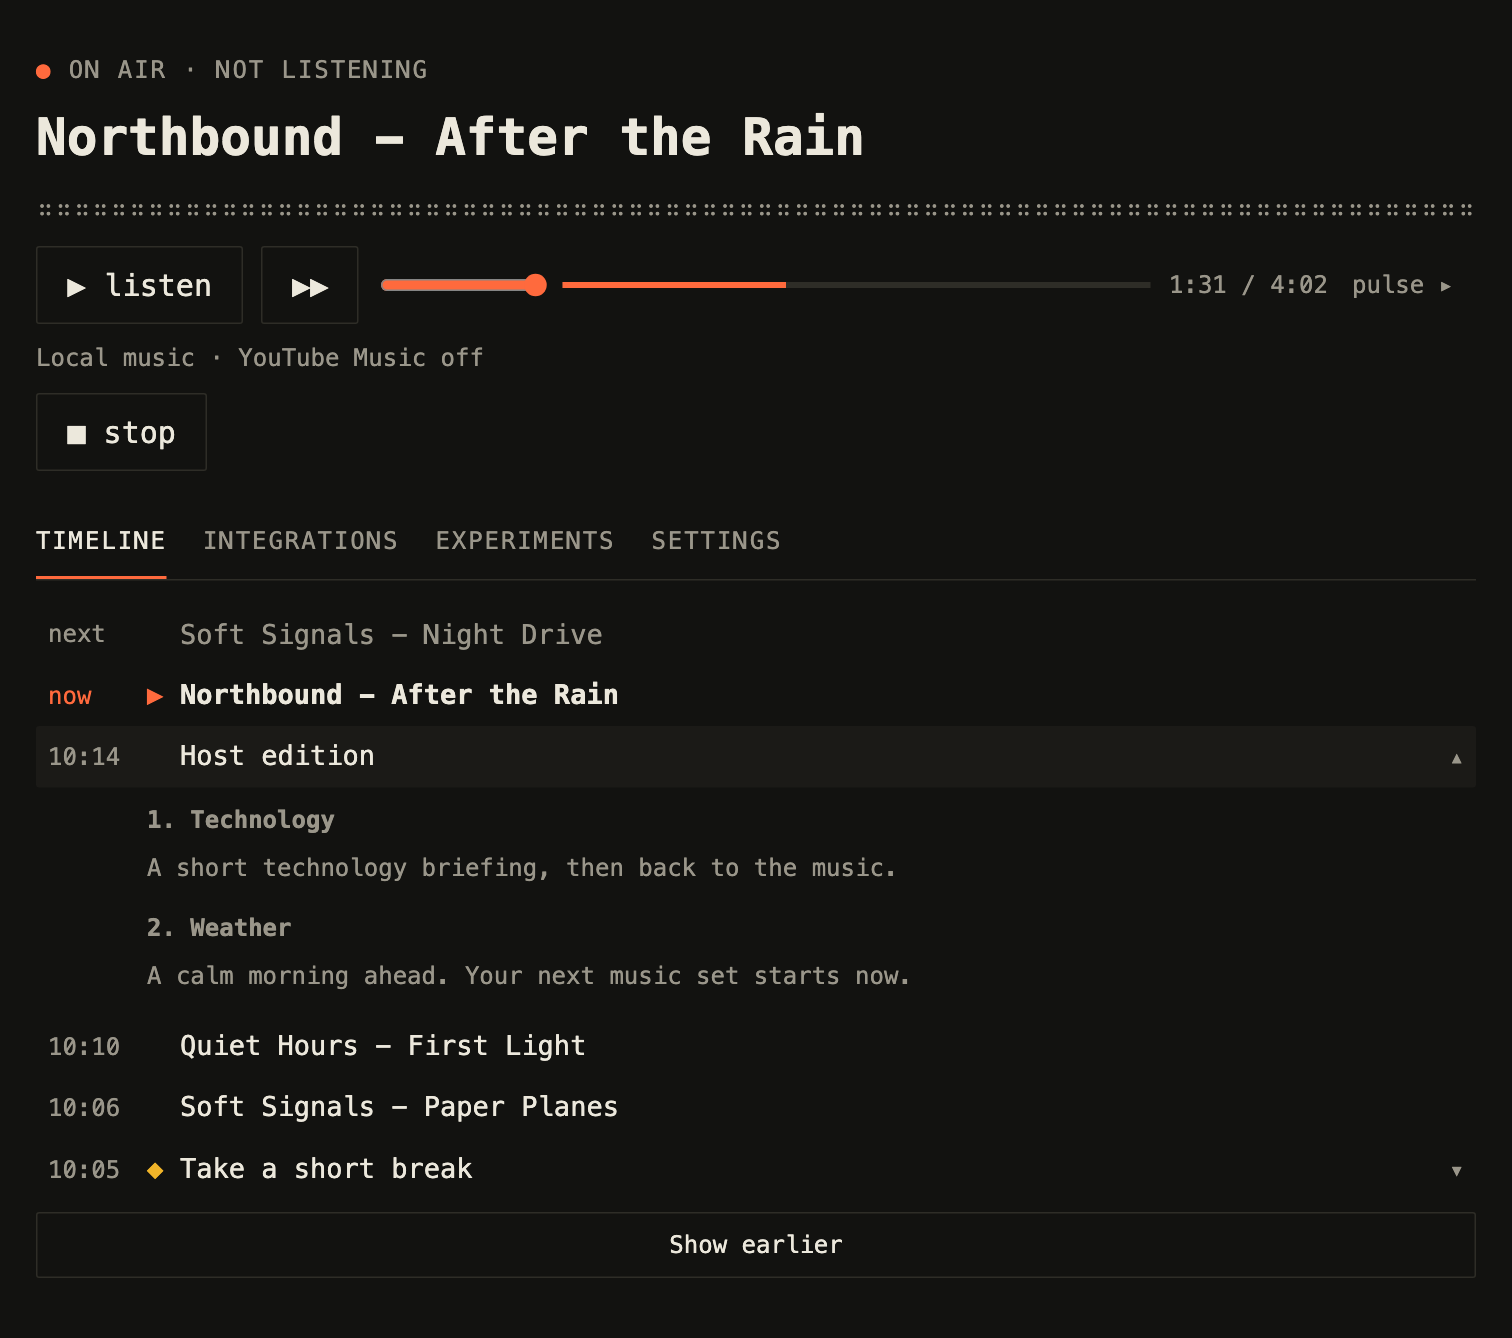
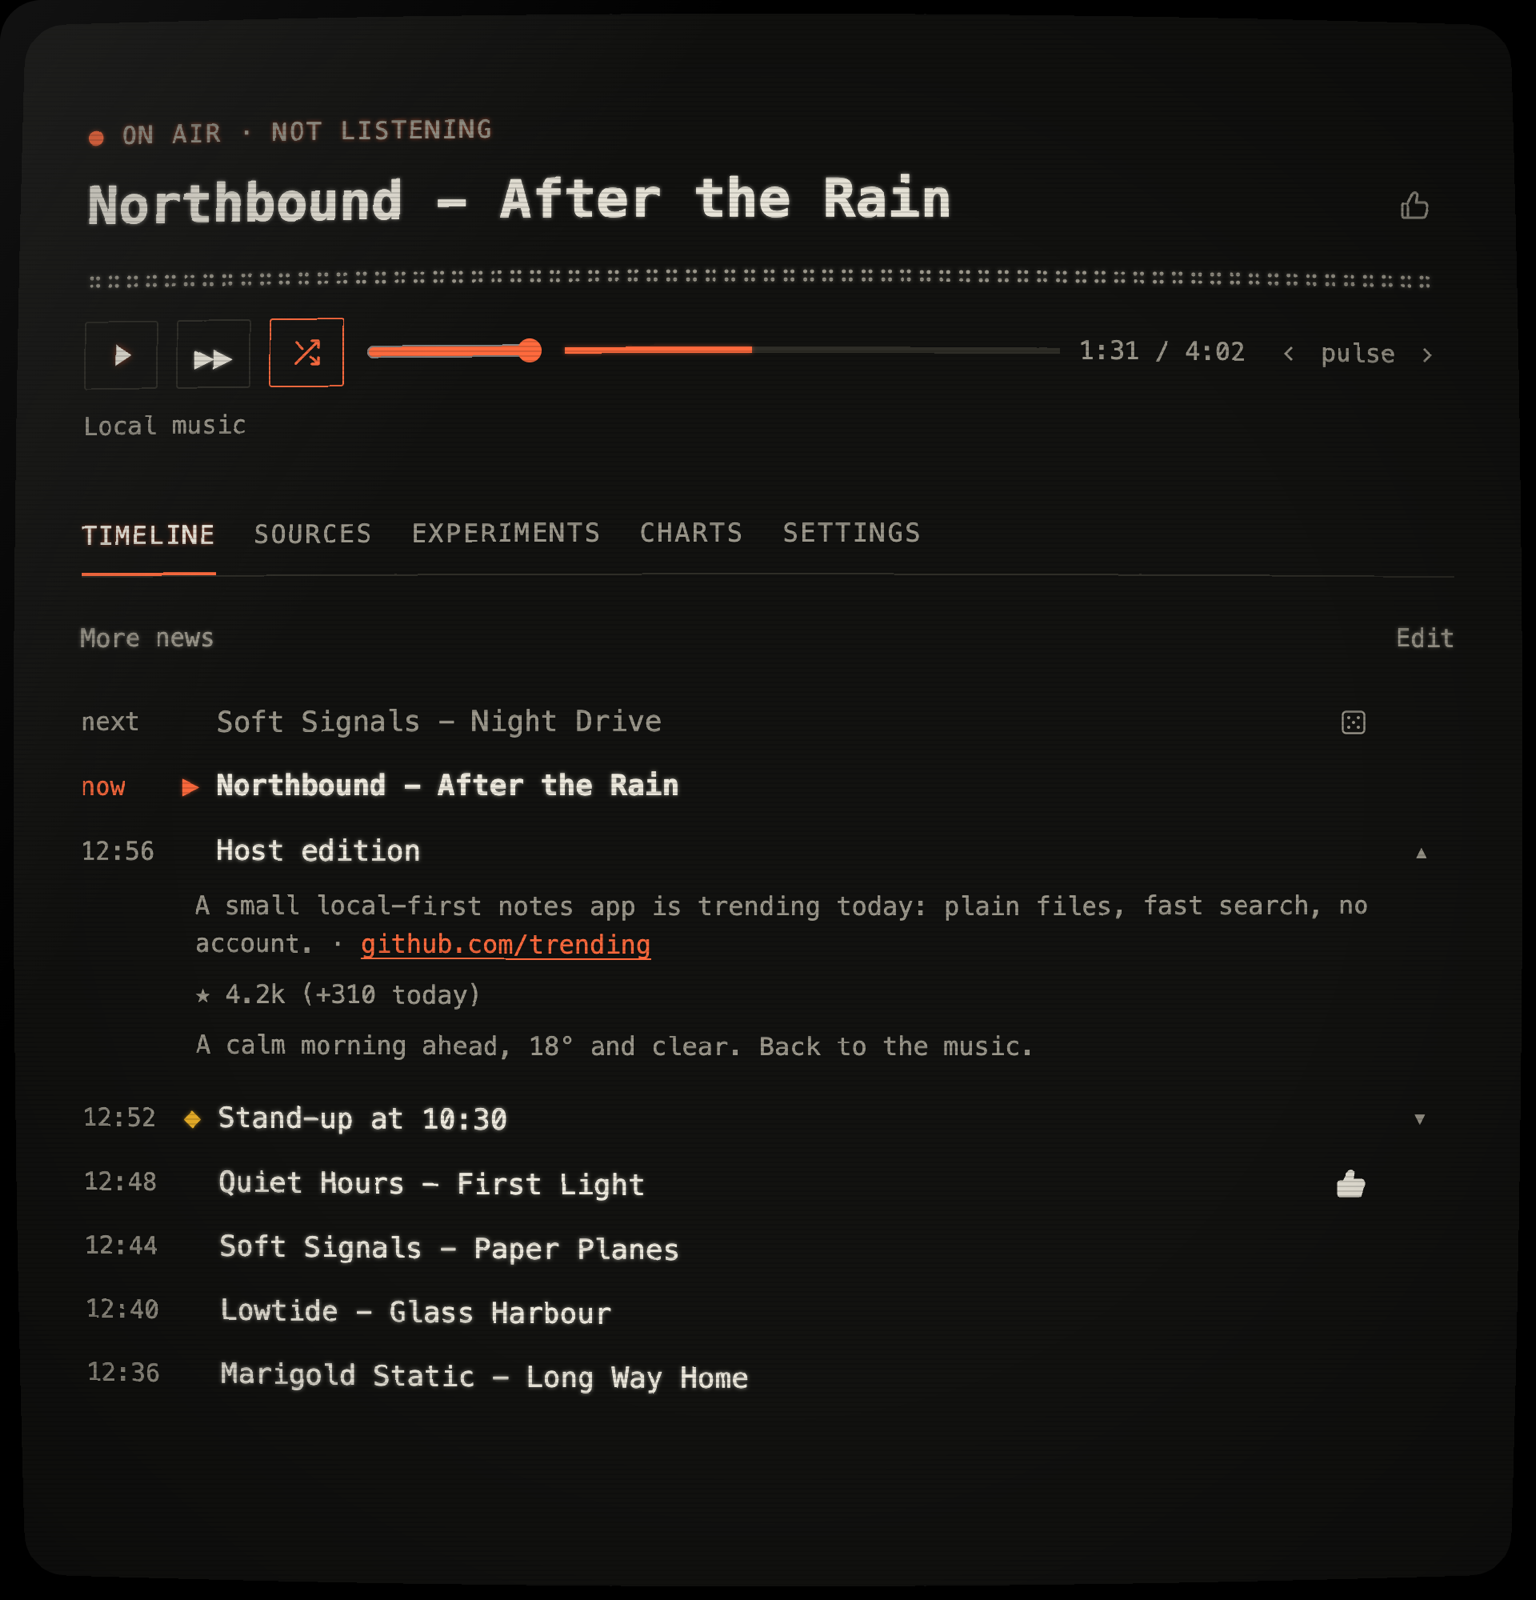
docs: a README with a quick start, the five themes, the timeline editor and every integration
Fresh screenshots of the current page on demo data (terminal light and dark, lime, soft, prism, cyber and the
editor); the guide's integration table gains Reddit, Telegram, lyrics and music stories, and Tailscale.

diff --git a/README.md b/README.md
@@ -7,135 +7,206 @@
               YOURWAVE
 ```
 
-`macOS` · `Python 3.11+` · `Liquidsoap` · `FFmpeg`
+`macOS` · `Python 3.11+` · `Liquidsoap` · `FFmpeg` · [MIT](LICENSE)
 
-[Quick start](#quick-start) · [On air](#on-air) · [Usage guide](docs/guide.md) · [Contributing](CONTRIBUTING.md)
+[Quick start](#quick-start) · [Themes](#five-looks-one-station) · [Integrations](#integrations) · [How it works](#how-it-works) · [Guide](docs/guide.md) · [Contributing](CONTRIBUTING.md)
 
-Yourwave turns your music library into a personal radio station with Russian-speaking hosts, news breaks, and useful reminders. Listen in your browser, see what just played, and shape the next edition without leaving the music.
+Yourwave turns the music on your Mac into a personal radio station. Between songs, a Russian-speaking host reads short news editions from sources you choose, the weather, and your calendar and Todoist reminders. You listen in the browser, see what just aired, and change what comes next while the music plays.
 
-Built for **one station on a Mac**, with your own music and a separately installed speech backend. Speech and the default script editor run locally; optional integrations and selected cloud editors make network requests. The Python application uses the standard library.
+<picture>
+  <source media="(prefers-color-scheme: dark)" srcset="docs/images/yourwave-dark.png">
+  <img src="docs/images/yourwave-light.png" alt="Yourwave's terminal theme: the song on air, the next track with its dice, an expanded host edition with a GitHub story and the weather, a reminder and earlier songs" width="880">
+</picture>
+
+<sub>Demo data. The terminal theme follows your system's light or dark mode.</sub>
+
+- **Local first.** Speech and the default script editor (Ollama) run on your Mac. The Python app uses only the standard library: there is nothing to `pip install`.
+- **A real broadcast.** Liquidsoap mixes the songs with crossfades and lowers the song under the host's voice. FFmpeg processes the voice and the whole station like a radio does: compression, a de-esser and a limiter.
+- **Yours to steer.** Use the dice to replace the next song, or, in the editor, any coming song; skip a block, move an edition, or insert your own text. The station has a CLI and an HTTP API for scripts and agents.
 
 ## Quick start
 
-### 1. Install the station
+You need a Mac with [Homebrew](https://brew.sh), a folder of music, and about ten minutes.
+
+**1. Install the station**
 
 ```sh
 brew install python liquidsoap ffmpeg
 git clone https://github.com/ArtomStatsenko/yourwave.git
 cd yourwave
-python3 tools/install_base_audio.py
-mkdir -p ~/Music/Radio
+python3 tools/install_base_audio.py   # four Base sounds, checked against a pinned SHA-256
+mkdir -p ~/Music/Radio                # put MP3, M4A, FLAC or WAV files here
 ```
 
-Add MP3, M4A, FLAC, or WAV files to `~/Music/Radio`. The installer downloads four Base sounds and checks their pinned SHA-256 hashes; your music and recordings stay outside Git.
+**2. Add a voice and a script editor**
 
-### 2. Prepare the voices and script editor
+- Speech: install **VoiceStudio** separately. It is not bundled. By default the station expects it at `http://127.0.0.1:3900`.
+- Script editor: install [Ollama](https://ollama.com) and pull the default model:
 
-Install **VoiceStudio** separately for speech. For the default local script editor, install and run **Ollama**, then download the model:
+  ```sh
+  ollama pull qwen3.5:4b
+  ```
 
-```sh
-ollama pull qwen3.5:4b
-```
+  If you prefer a cloud model, choose one later in **Settings**: OpenAI (a key or *Sign in with ChatGPT*), OpenRouter, DeepSeek or xAI Grok.
 
-### 3. Open your station
+**3. Open your station**
 
 ```sh
 ./bin/radio ui
 ```
 
-The UI opens at [localhost:8765](http://127.0.0.1:8765/) and creates your configuration on first launch. Set `voice.server_dir` in `config.toml` to your VoiceStudio backend directory if it differs from the default, then start the station and choose **Listen**.
+The page opens at [127.0.0.1:8765](http://127.0.0.1:8765/) and starts the station. On first launch it writes your `config.toml`. Press **▶** to listen.
 
-Use `./bin/radio doctor` to check the tools and synthesize a voice sample. The [setup guide](docs/guide.md#quick-start) covers backend paths, offline installation, and configuration.
+**4. Check the setup**
+
+```sh
+./bin/radio doctor
+```
+
+`doctor` checks the tools, the audio output, your music folder and the voice backend, then speaks a Russian test phrase. If VoiceStudio is not in its default folder, set `voice.server_dir` in `config.toml`. The [setup guide](docs/guide.md#quick-start) covers backend paths, an offline install and every setting.
 
 <details>
 <summary>Where your station lives</summary>
 
-Configuration, source connections, playback history, and caches live in `~/Library/Application Support/PersonalRadioClaude/`. The older directory name and `radio` command are retained for compatibility. Your music stays in the folder you select.
+Configuration, source connections, playback history and caches live in `~/Library/Application Support/PersonalRadioClaude/`. The older directory name and the `radio` command are kept for compatibility. Your music stays in the folder you choose.
 
-Use `RADIO_DATA_DIR` for a separate development station; see [Contributing](CONTRIBUTING.md#setup).
+To try changes on a separate development station, set `RADIO_DATA_DIR`; see [Contributing](CONTRIBUTING.md#setup).
 
 </details>
 
 > [!NOTE]
-> VoiceStudio is not bundled. A complete first run on another machine has not yet been verified; [deployment status](docs/public-deployment-blockers.md) records the remaining checks.
+> A complete first run on a fresh machine has not yet been verified. The [deployment status](docs/public-deployment-blockers.md) lists the checks still open.
 
 ## On air
 
-<picture>
-  <source media="(prefers-color-scheme: dark)" srcset="docs/images/yourwave-dark.png">
-  <img src="docs/images/yourwave-light.png" alt="Yourwave showing the current song, next track, and an expanded host edition in the broadcast timeline" width="960">
-</picture>
-
-*Demo data: the current song, the next track, and an expanded host edition. Light and dark themes follow your system.*
-
-| Part of your station | What it does |
+| | What your station does |
 | --- | --- |
-| Music | Local files or a connected YouTube Music playlist, with smooth transitions and local fallback |
-| Hosts | Russian speech, an optional second host, and pronunciation overrides for foreign names |
-| Editions | Main and short news opportunities at `:00` and `:30`, fitted around song boundaries |
-| Reminders | Calendar and Todoist announcements, with details retained in the timeline |
-| Timeline | What played, what comes next, and an editor for upcoming editions and inserts |
-| Coming up | An optional experiment introducing two upcoming songs, with reviewable music hooks |
+| **Music** | Your local files, a connected YouTube Music playlist, or both in one shuffle. Unheard songs can go first; the *Energy wave* experiment rises and eases with listening time. |
+| **Host editions** | Main and short editions at `:00` and `:30`, placed at song boundaries. The host speaks over the end of a song, as on the radio. A second host is an experiment. |
+| **Reminders** | Calendar events and Todoist tasks, read aloud ahead of time, with the details kept in the timeline. |
+| **Timeline** | What aired, with an unfolded transcript and the source links for each edition, what airs next, and a 👍 for songs you want more often. |
+| **Editor** | With the *Air direction* experiment on, the plan for the next hours: a dice on every coming song, skip or move a block, insert a text, a jingle or a weather update. |
+| **Charts** | Weekly, monthly and all-time charts from your 👍 and your plays. With Air direction on, a *chart set* airs them. |
+| **Anywhere** | The same page on your phone over a private [Tailscale](docs/mobile-listening.md) network. |
 
-Editions depend on prepared content and the speech budget. Their displayed times are estimates until playback is determined; an unavailable source does not stop the music.
+Edition times are estimates until the songs around them are fixed. If a source is down, the music keeps playing.
 
-## Make it yours
+<p align="center">
+  <img src="docs/images/timeline-editor.png" alt="The timeline editor: coming songs with a dice each, host editions and a reminder with their readiness, move and skip buttons, and the songs that already aired below" width="720">
+</p>
 
-- **Choose the stories.** GitHub, imported briefings, weather, calendar, Todoist, and optional public news sources. [Integrations](docs/guide.md#integrations).
-- **Shape the sound.** Choose voices and a script provider, set the station name, and adjust speech limits. [Settings](docs/guide.md#settings).
-- **Try an experiment.** Enable two hosts or Coming up when you want them. [Timeline and experiments](docs/guide.md#timeline-and-experiments).
+<sub>The timeline editor (**Timeline → Edit**). Demo data.</sub>
 
-**Listen / Pause** affects the current browser. With the `browser` output the station starts when a page opens on the Mac and stops a minute after the last page closes and nobody listens; with `speakers` or `both`, **Start radio** and **Stop radio** on the Mac control it. [Phone listening](docs/mobile-listening.md).
+## Five looks, one station
+
+Every theme is the same page with a different look: the same timeline, editor and settings. Choose one in **Settings → Appearance**, open a theme with `?theme=<name>` in the page address, or set `[ui] theme` in `config.toml`.
+
+<table>
+  <tr>
+    <td width="50%"><img src="docs/images/themes/lime.png" alt="Lime theme: dark, with a lime accent and rows as tiles"><br><b>lime</b>: dark, one lime accent, rows as tiles</td>
+    <td width="50%"><img src="docs/images/themes/soft.png" alt="Soft theme: light, with an indigo accent and raised controls"><br><b>soft</b>: light, indigo, soft raised controls</td>
+  </tr>
+  <tr>
+    <td><img src="docs/images/themes/prism.png" alt="Prism theme: black, with a split-colour title and thin lines"><br><b>prism</b>: black, a split-colour title, thin lines</td>
+    <td><img src="docs/images/themes/cyber.png" alt="Cyber theme: dark, with a yellow accent, uppercase labels and cut corners"><br><b>cyber</b>: yellow on black, cut corners</td>
+  </tr>
+</table>
+
+**terminal** (shown at the top) is the default and the reference. To write your own theme, see [Page themes](docs/ui-themes.md).
+
+## Integrations
+
+Everything except your music folder is optional. Turn sources on in the page's **Sources** tab or in `config.toml`. Setup for each one is in the [guide](docs/guide.md#integrations).
+
+| Area | Integration | What it brings |
+| --- | --- | --- |
+| Music | Local folder | MP3, M4A, FLAC and WAV from `~/Music/Radio` |
+| | YouTube Music | A connected playlist, played through `yt-dlp`, with local songs as the fallback |
+| Speech | VoiceStudio | The host's voice, designed from a description (OmniVoice); a Qwen3-TTS voice-cloning engine is also supported |
+| Script editor | Ollama · OpenAI / ChatGPT · OpenRouter · DeepSeek · xAI Grok | Short Russian retellings that follow one editorial policy for every source |
+| News | GitHub Trending · new GitHub repositories | Popular projects, and promising projects from the last week |
+| | Horizon | Prepared news briefings |
+| | Reddit · Telegram | Public subreddits and channels you choose ([experimental](docs/public-news.md)) |
+| Your day | iCal calendar · Todoist | Timed reminders and all-day mentions |
+| | Open-Meteo | A short weather update, at most every three hours |
+| About songs | LRCLIB · MusicBrainz · Wikidata | Lyrics timing, so the host does not talk over vocals, and verified *music stories* |
+| Elsewhere | Tailscale | The station on your phone, privately ([how](docs/mobile-listening.md)) |
+| Automation | HTTP API · CLI | Every station operation, with JSON output ([reference](docs/cli/README.md)) |
+
+Optional integrations and cloud editors make network requests: for example, music stories send artist and track names to MusicBrainz and Wikidata. Tokens and cookies stay in your local data folder.
+
+## How it works
+
+```text
+  news · calendar · weather · todos
+                 │
+           script editor    LLM: a short retelling
+                 │
+               voice        TTS
+                 │
+               daemon       plans the clock and the timeline
+                 │
+             Liquidsoap     songs, talk-ups, crossfades
+                 │
+               FFmpeg       voice and master processing
+                 │
+     browser · speakers · phone
+```
+
+- `radio/daemon.py` keeps the plan: what airs at the next song boundary and which edition fits the clock.
+- `radio/radio.liq` is the Liquidsoap mixer. `radio/engine.py` drives it and runs the FFmpeg output chain.
+- `radio/ui.py` serves the page and the stream. `radio/web` holds the page: one core, one model and five themes.
+
+For the details, read the [audio chain](docs/audio.md), the [HTTP API](docs/api.md) and the [energy wave](docs/energy-wave.md).
 
 ## At the terminal
 
 ```sh
-./bin/radio status
-./bin/radio next
-./bin/radio history --last 10
+./bin/radio status              # what is on air
+./bin/radio next                # skip to the next song
+./bin/radio history --last 10   # what aired
 ```
 
-Import a briefing, record an output, or inspect sources with the [command guide](docs/guide.md#commands).
-
-### Agent and script access
-
-The same station operations are available through the HTTP API and the native CLI. Use JSON results for automation:
+For scripts and agents, the same operations come as JSON:
 
 ```sh
 ./bin/radio --json capabilities
-./bin/radio --json settings list
 ./bin/radio --json queue list
-./bin/radio --json probe --silent --seconds 5
+./bin/radio --json probe --silent --seconds 5   # decode the live stream, no audio device
 ```
 
-`./bin/radio api serve` runs the existing API without opening a browser. The probe needs that server and a playing stream; it decodes audio without opening an audio device. See the [CLI and API reference](docs/cli/README.md) for all operations, credentials through stdin, exit codes and browser-only settings.
+`./bin/radio api serve` runs the API without opening a browser. The [CLI and API reference](docs/cli/README.md) lists every operation, how to pass credentials on stdin, and the exit codes.
 
-## Inside the repository
+## Documentation
 
-| Path | Contents |
+| Read | For |
 | --- | --- |
-| [radio/](radio/) | Station process, source adapters, speech, playback, and browser UI |
-| [tests/](tests/) | Isolated state, scheduling, UI, and audio-engine checks |
-| [tools/](tools/) | Base audio installer and build tools |
-| [docs/guide.md](docs/guide.md) | Setup, integrations, configuration, and everyday use |
+| [Usage guide](docs/guide.md) | Setup, integrations, settings, commands |
+| [Phone listening](docs/mobile-listening.md) | The station on your phone over Tailscale |
+| [Audio](docs/audio.md) | Loudness, transitions, voice and master processing |
+| [HTTP API](docs/api.md) · [CLI](docs/cli/README.md) | Automation and agents |
+| [Page themes](docs/ui-themes.md) | How themes work, and how to write one |
+| [Product](PRODUCT.md) · [Design](DESIGN.md) | What the station is for, and the interface rules |
 
 ## Development
-
-Install Base and the audio tools, then run:
 
 ```sh
 python3 -m unittest discover -s tests
 git diff --check
 ```
 
-The tests do not need VoiceStudio or an LLM; some use Liquidsoap and FFmpeg. See [CONTRIBUTING.md](CONTRIBUTING.md) for an isolated development setup and [TODO.md](TODO.md) for deferred work.
+The tests need neither VoiceStudio nor an LLM. Some of them start Liquidsoap and FFmpeg. See [CONTRIBUTING.md](CONTRIBUTING.md) for an isolated development station and [TODO.md](TODO.md) for deferred work.
+
+| Path | Contents |
+| --- | --- |
+| [radio/](radio/) | The station process, source adapters, speech, playback and the page |
+| [tests/](tests/) | Scheduling, UI, state and audio-engine checks on isolated data |
+| [tools/](tools/) | The Base audio installer and build tools |
 
 ## License and credits
 
 - **Code and documentation:** [MIT](LICENSE).
-- **Base sounds:** edited from **Tech Live by Kevin MacLeod**, under **CC BY 4.0**; distributed separately as [Base audio v1.0.0](https://github.com/ArtomStatsenko/yourwave/releases/tag/base-audio-v1.0.0). [Credits and rebuild instructions](assets/RIGHTS.md).
-- **English pronunciation data:** bundled CMUdict, under its [own license](assets/cmudict.LICENSE).
+- **Base sounds:** edited from **Tech Live by Kevin MacLeod**, under **CC BY 4.0**, and distributed separately as [Base audio v1.0.0](https://github.com/ArtomStatsenko/yourwave/releases/tag/base-audio-v1.0.0). See the [credits and rebuild instructions](assets/RIGHTS.md).
+- **English pronunciation data:** the bundled CMUdict, under its [own license](assets/cmudict.LICENSE).
 
-See [third-party notices](THIRD_PARTY_NOTICES.md) for attribution and distribution boundaries.
-
-Detailed usage documentation is in English. Some historical research and audio-audit documents under `docs/` are in Russian.
+See the [third-party notices](THIRD_PARTY_NOTICES.md) for attribution and distribution limits. The usage documentation is in English. Some historical research and audio-audit notes under `docs/` are in Russian.

diff --git a/docs/guide.md b/docs/guide.md
@@ -84,6 +84,9 @@ Browser output pauses after 30 seconds without listeners and resumes when one co
 | Todoist | Tasks with a due date and time | Set `reminders.todoist_token` |
 | Open-Meteo | A short weather update at most every three hours | Set `weather.city` |
 | YouTube Music | A connected playlist | Install `yt-dlp`, enable the integration, connect a playlist, then select YouTube Music in Settings → Music source |
+| Reddit · Telegram | Public subreddits and channels | Experiments; edit the lists in Sources → News sources ([public-news.md](public-news.md)) |
+| LRCLIB · MusicBrainz · Wikidata | Lyrics timing for speech windows; verified music stories | Lyrics are automatic; enable Music stories |
+| Tailscale | The station on your phone | [mobile-listening.md](mobile-listening.md) |
 
 For YouTube Music:
 
